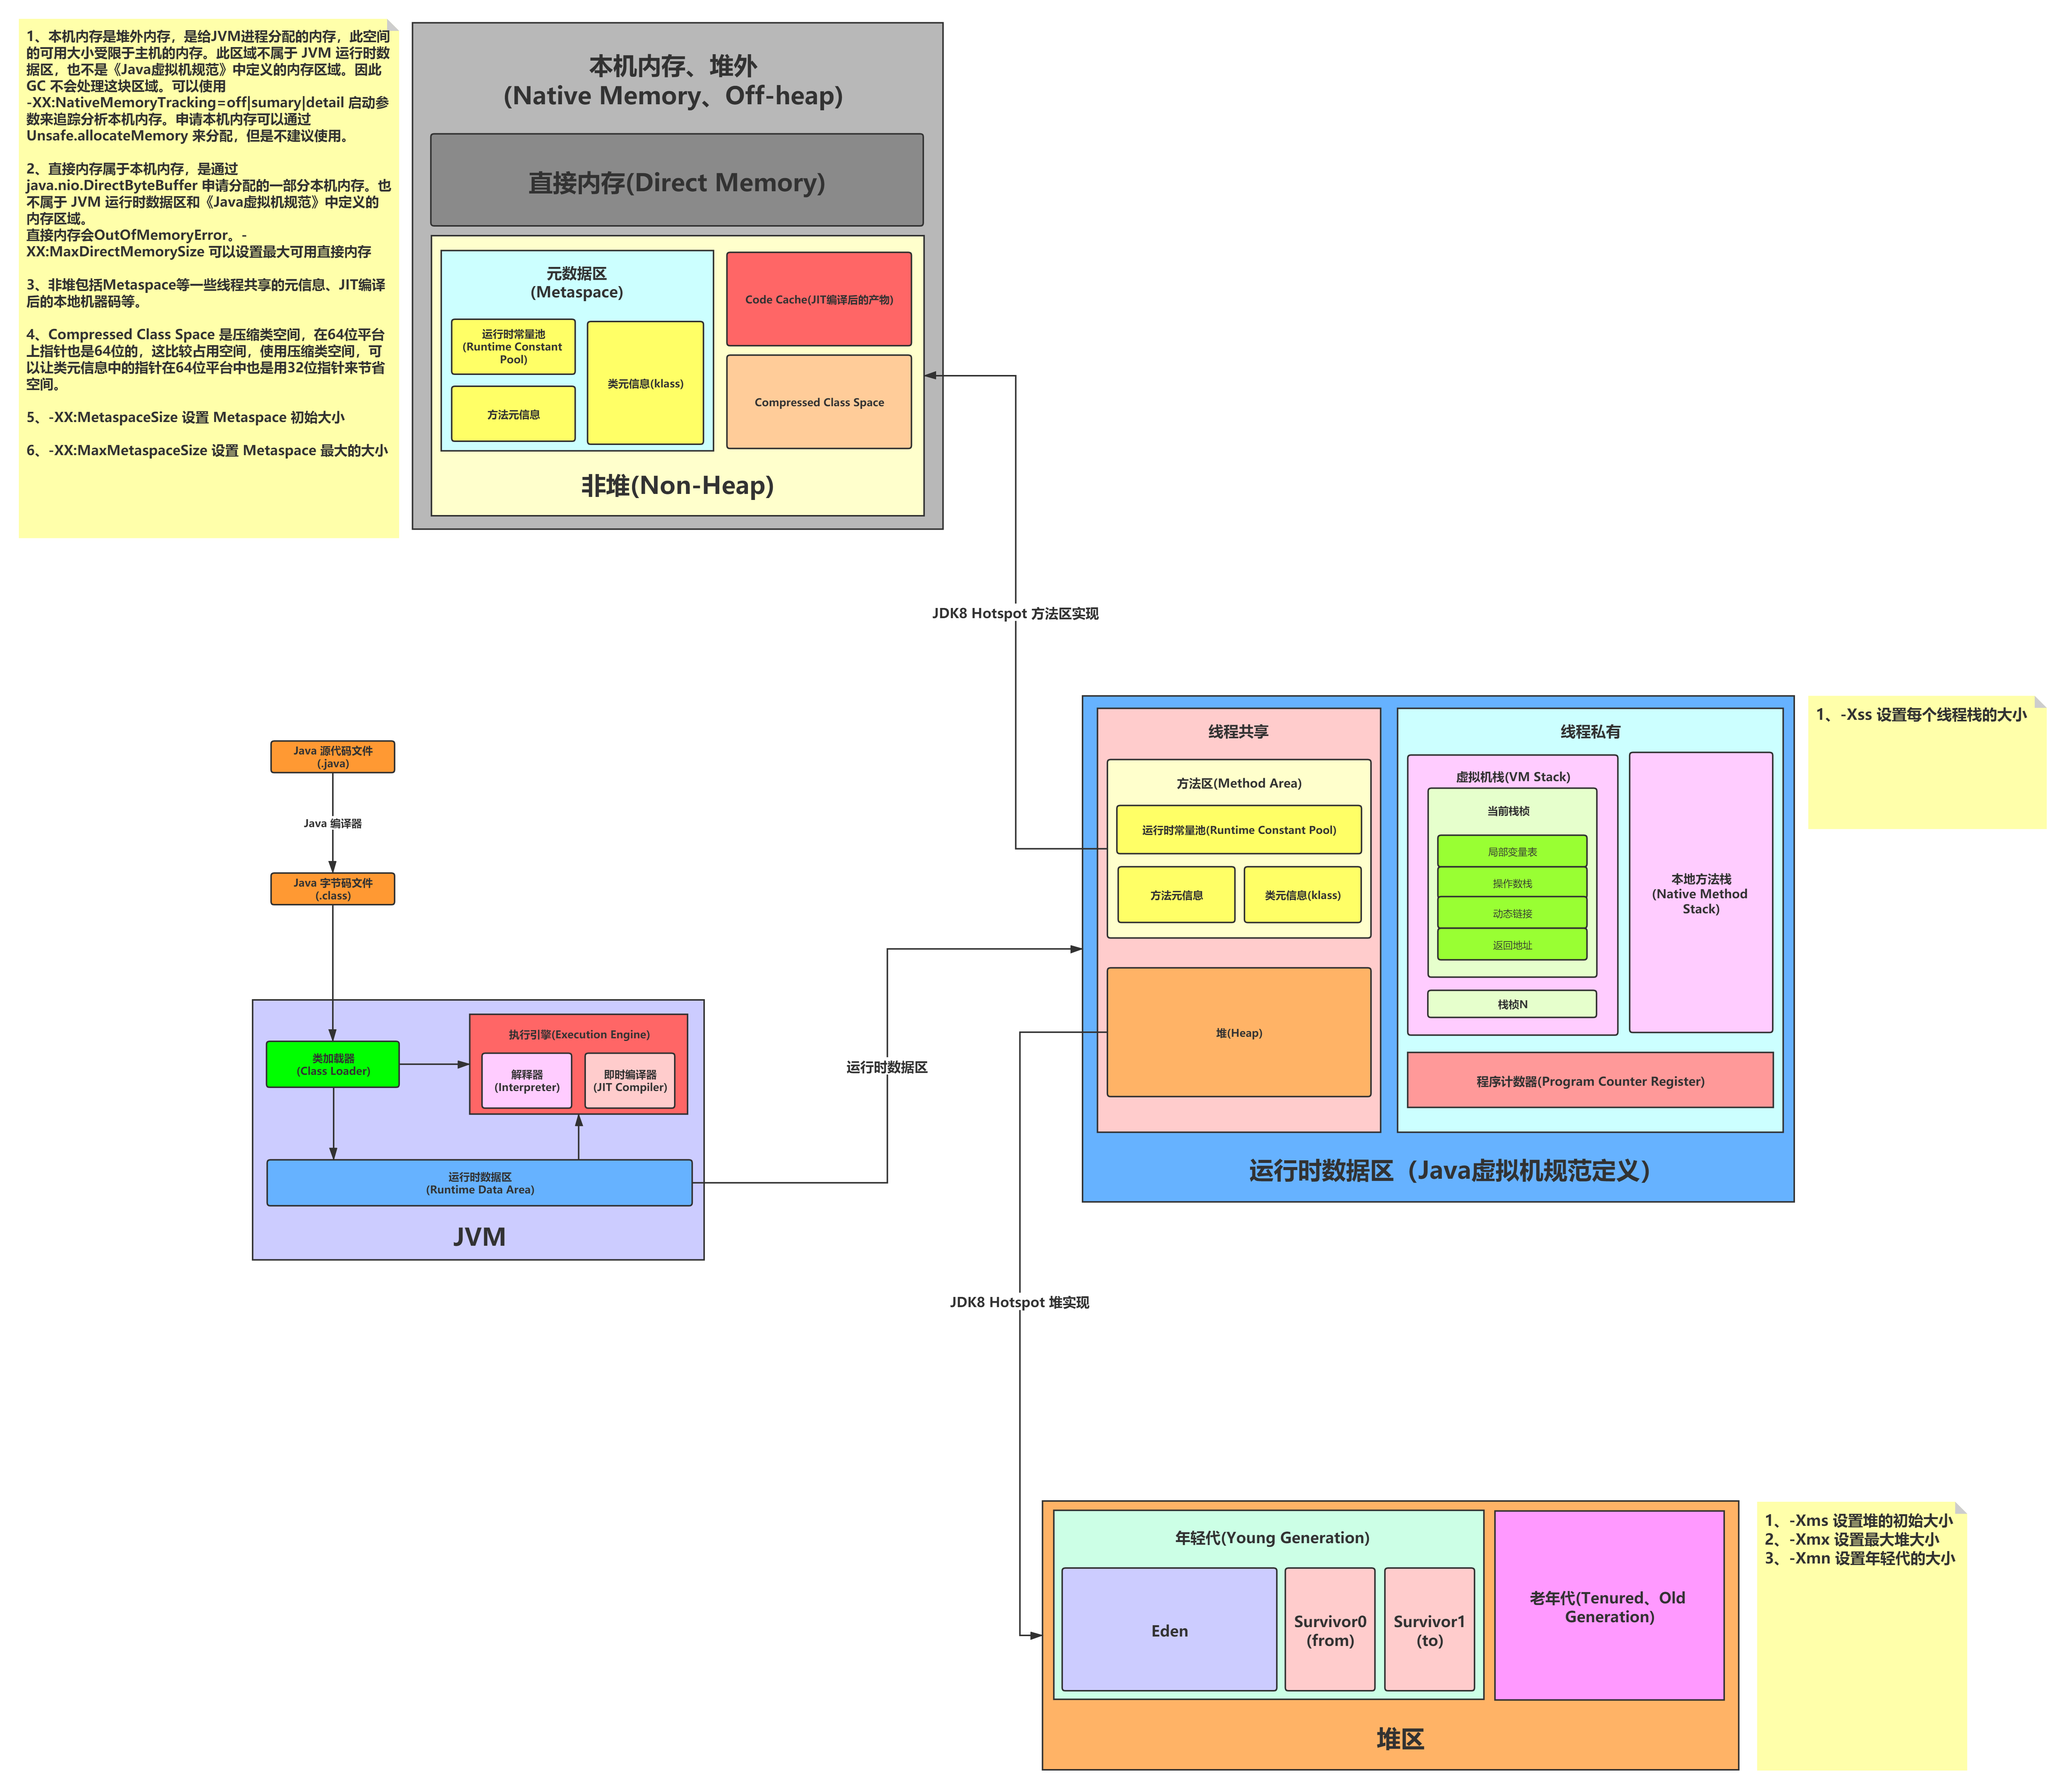
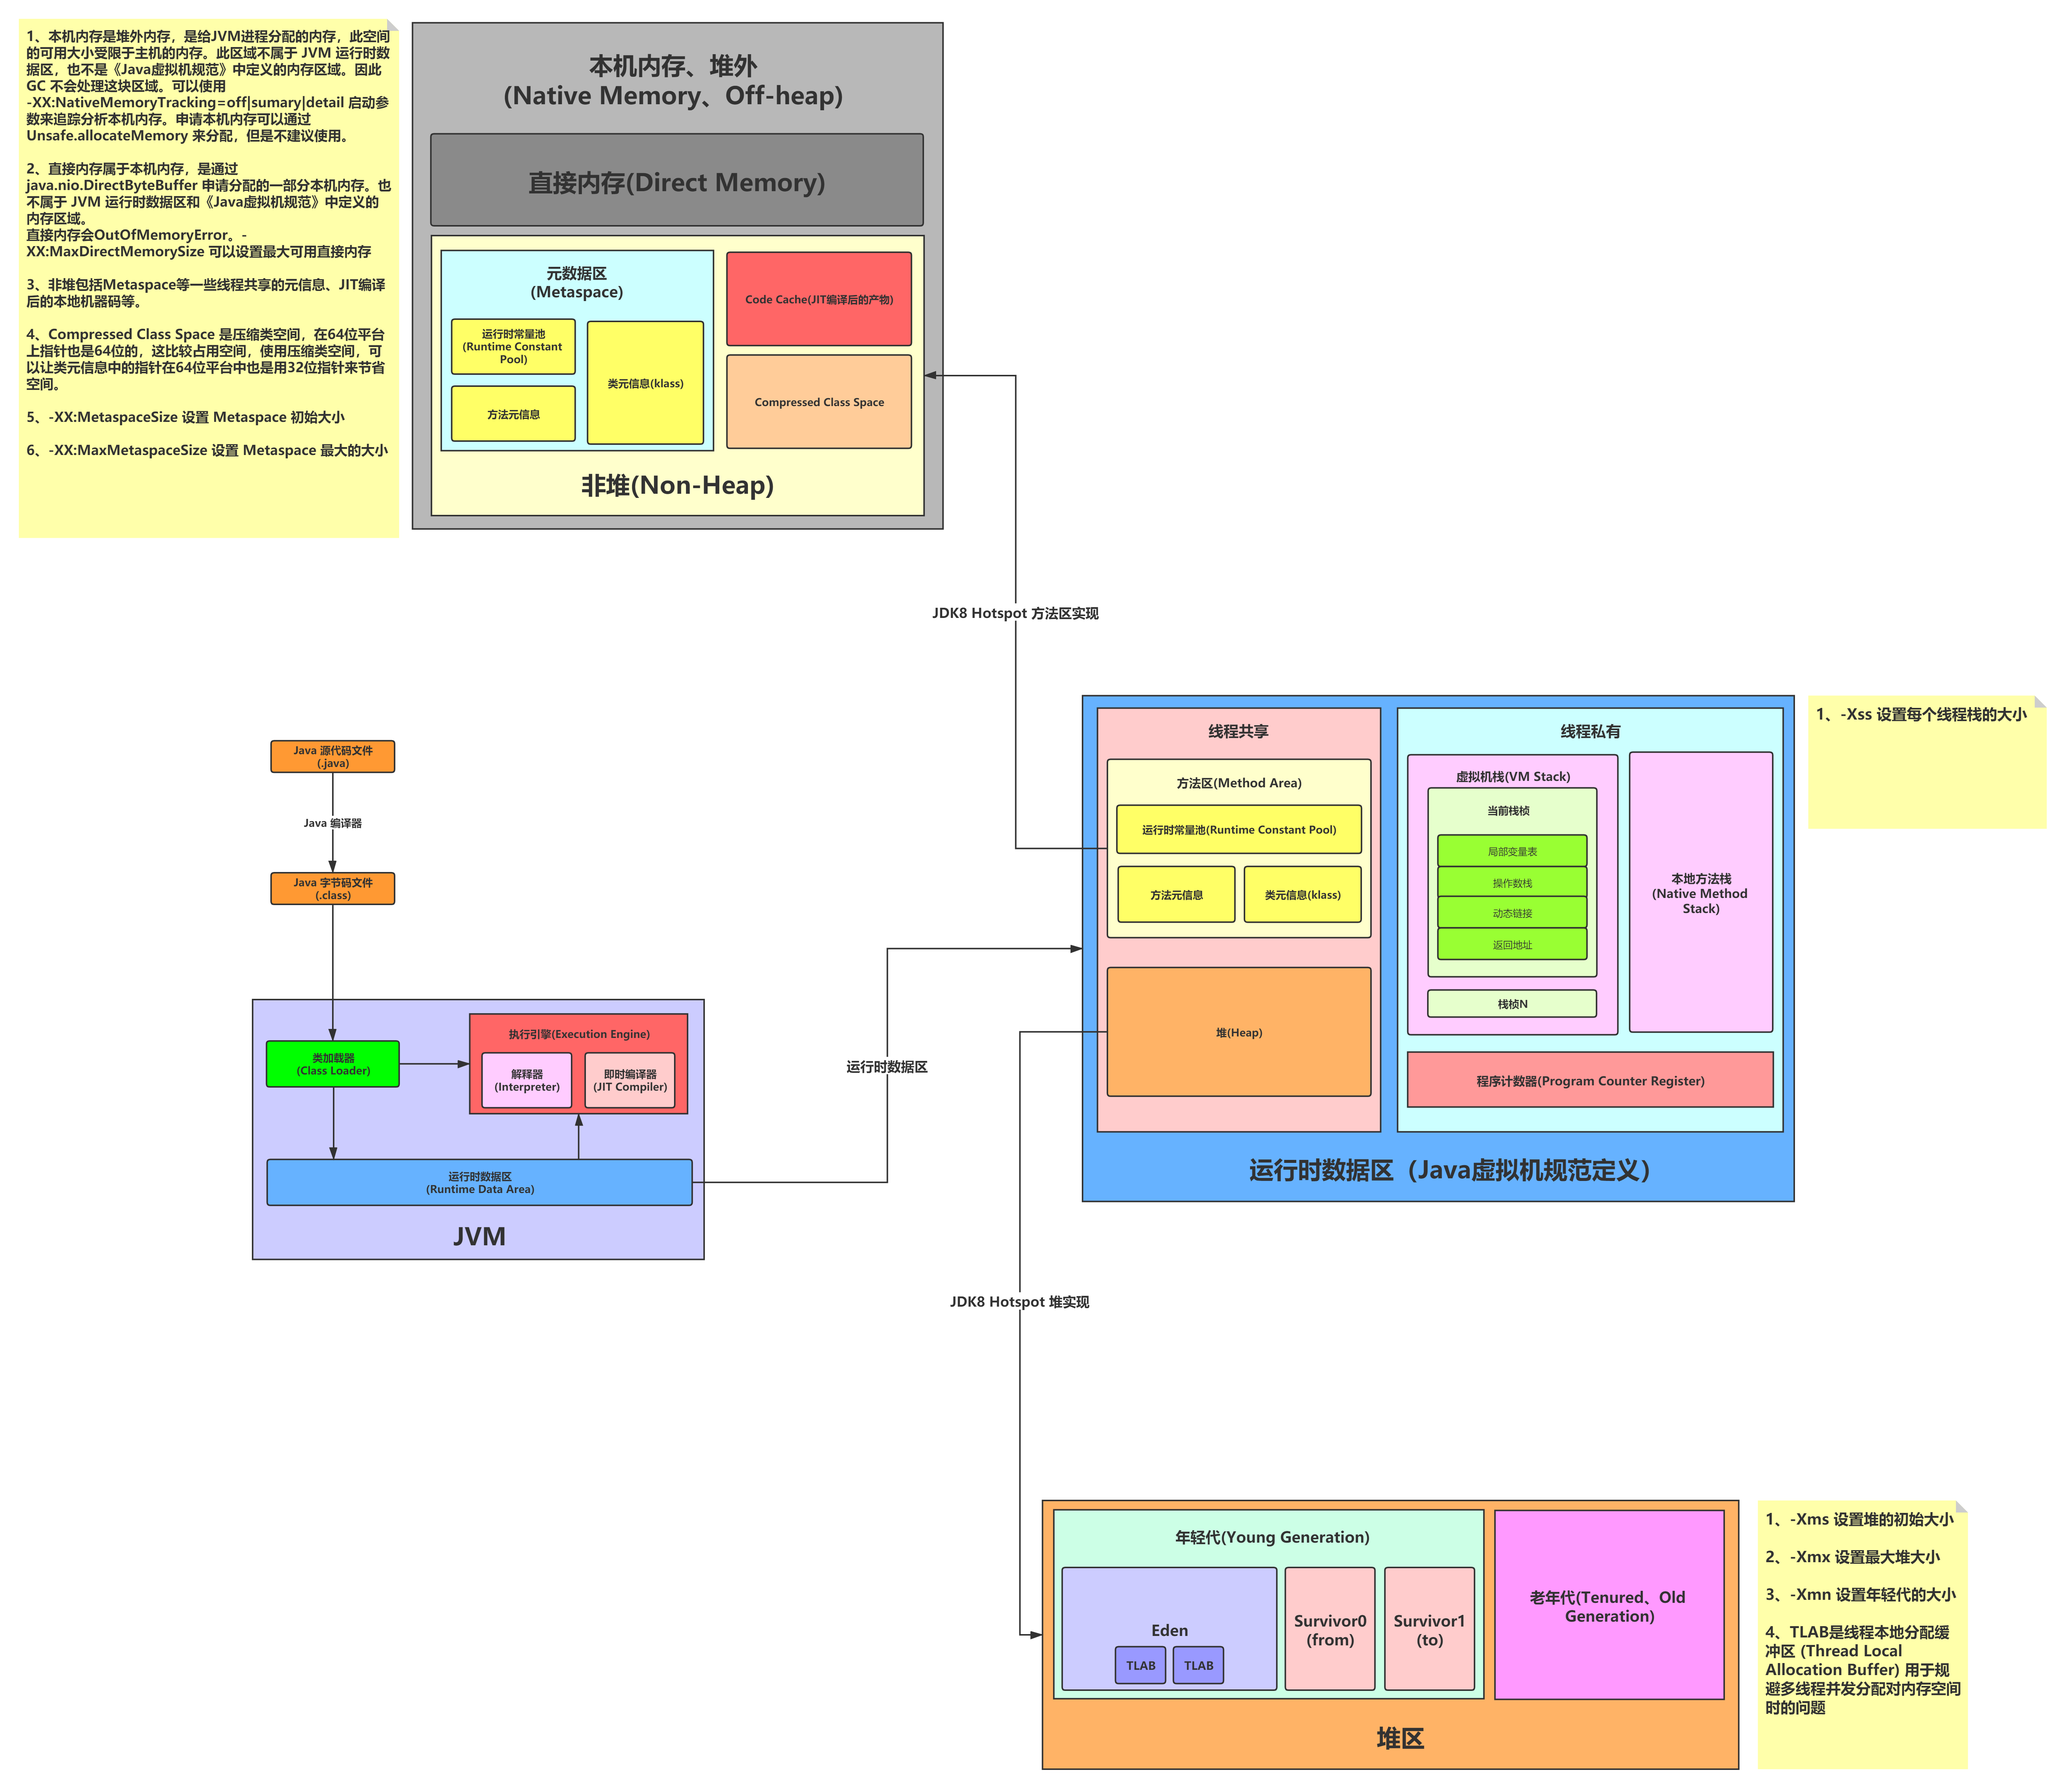
笔记整理

diff --git a/Week_01/lesson02/README.md b/Week_01/lesson02/README.md
@@ -16,6 +16,10 @@
     - [2.2 jvisualvm](#jvisualvm)
     - [2.3 jmc](#jmc)
   - [3. GC (Garbage Collection)](#gc)
+    - [3.1 垃圾回收算法](#gcAlgorithm)
+    - [3.2 内存碎片整理](#memoryDefragmentation)
+    - [3.3 分代假设](#generationalHypothesis)
+    - [3.4 堆内存池划分](#heapPartition)
 ---------------------
 # <span id="jdkCommandTools">1. JDK 自带命令行工具</span>
 > ![alt 图片](./img/常用%20JDK%20自带命令行工具.png "常用 JDK 自带命令行工具")
@@ -266,6 +270,8 @@ d:\>jstat -gccapacity 6820
 >>>
 >> ## <span id="jmapCommand">1.4 jmap</span>
 >> 用于查看堆内存的统计信息、导出堆快照文件、查看 ClassLoader 的信息以及 finalizer 队列
+>>
+>> 注意: 对于线上有流量的系统，慎重使用 jmap 命令。
 >>
 >> jmap 语法:
 ```
@@ -631,7 +637,7 @@ java
 > jmc 是源自 JRockit JVM 的一套监控和管理工具，功能最全。jmc 监控的是整个系统，而并非只是被选中的 JVM 进程。
 >
 # <span id="gc">3. GC (Garbage Collection)</span>
-> ## <span id="gc">3.1 垃圾回收算法</span>
+> ## <span id="gcAlgorithm">3.1 垃圾回收算法</span>
 > ### 3.1.1 引用计数法
 >> #### 1) 原理
 >>> 当某个对象被引用的时候，该对象的引用计数器就加一，当该对象不被引用时引用计数器就减一，如果引用计数器为0时，就代表此对象
@@ -672,6 +678,57 @@ java
 >>> 垃圾收集过程中，需要暂停应用程序的所有线程。假如不暂停，则对象间 的引用关系会一直不停地发生变化，那样就没法进行统计了。
 >>> 这种情况叫做 STW 停顿 (Stop The World Pause ，全线暂停)，让应用程序暂时停止，让JVM进行内存清理工作。有很多原因会触发 STW 停顿，
 >>> 其中垃圾收集是最主要的原因。
+>
+> ## <span id="memoryDefragmentation">3.2 内存碎片整理</span>
+> 在每次执行清除 (Sweeping) 之后，JVM 都必须保证不可达对象所占用的内存空间能被回收重用，但这就导致了内存的不连续而产生内存碎片。从而引发两个问题:
+>>   - 写入操作越来越慢，因为寻找一片足够大的空闲内存会变得困难，并且这些内存碎片下次很可能因为分配算法的关系而无法再次重用。
+>>   - 在创建新对象时，JVM 在连续的块中分配内存。如果内存碎片问题很严重，没有足够的空闲连续的内存段使用，就会发生内存分配错误
+>>
+>> 要避免这类问题，JVM 必须保证内存碎片问题可控。因此在垃圾收集过程中，标记清除之后，还需要执行“内存碎片整理”。
+>>
+>> ![alt 图片](./img/内存碎片整理示意图.png "内存碎片整理示意图")
+>>
+>> 注意: 如果 GC 移动了某个对象，就会修改栈和堆中所指向该对象的引用。移动/复制/压缩都会 STW，所以修改某个的对象的引用是安全的，
+>>       但要更新所有指向该对象的引用，可能会影响性能。
+>
+> ## <span id="generationalHypothesis">3.3 分代假设</span>
+>> 创建的对象越多，收集垃圾的时间就会越长，STW 的时间也会越长。程序中大多数可回收的内存可分为两类:
+>>   - 大部分对象很快就不在使用或立刻就无用，生命周期很短。
+>>   - 不会立即无用，但是也不会使用太长时间
+>>
+>> 根据这个情况就形成了弱分代假设理论，这一假设任为”大多数对象在年轻时死亡“。
+>> JVM 根据这个理论将堆内存分为年轻代 (Young Generation、New Generation) 和老年代 (Old Generation、Tenured Generation)。拆分
+>> 这两个可单独清理的区域，就可以使用不同的 GC 算法来提高 GC 的性能。
+>>
+>> 分代假设的弊端: 实际情况中，在不同的分代中的对象可能存在相互引用，比如年轻代的对象引用着老年代的对象，老年代的对象引用着年轻代的对象
+>                分代假设并不适用于所有程序。因为分代 GC 算法专门针对“要么死得快”，“否则活 得长” 这类特征的对象来进行优化，
+>                此时 JVM 管理那种存活时间半长不长的对象就显得非常尴尬了。
+>
+> ## <span id="heapPartition">3.4 堆内存池划分</span>
+> ### 3.4.1 新生代 (Eden Space)
+>> 新生代也叫伊甸区，是堆内存中的一个区域，用来分配新创建的对象。通常情况会有多个线程并发的创建多个对象，出现线程安全问题，
+>> 这样就会产生指针碰撞问题。
+>>
+>> 指针碰撞: 假设 JVM 上堆内存现在是规整的，没有碎片。堆内存被指针一分为二，左边是已经使用的内存区域，右边是未使用的内存区域，
+>>          每次新创建了一个对象时指针就会向右移动对象大小的距离，这被称为指针碰撞。
+>>
+>> ![alt 图片](./img/指针碰撞.png "指针碰撞")
+>
+>> 指针碰撞问题在于多线程并发情况下，一个线程正在给对象 A 分配内存空间，指针还没有来得及修改，同时另一个线程正在给对象 B 分配内存，
+>> 这样就会出现在同一块内存区域同时被分配多次的问题。
+>> 
+>> java 的 Eden 区在解决这个问题的方案是将 Eden 区划分出多个 TLAB (线程本地分配缓冲区)，TLAB 是每个线程独享的，每个线程只在属于
+>> 自己的 TLAB 中分配各自所需的内存。如果 TLAB 中没有足够的内存空间，就会在共享 Eden 区(shared Eden space)之中分配。
+>> 如果共享 Eden 区也没有足够的空间，就会触发一次年轻代 GC 来释放内存空间。
+>> 
+>
+>
+>
+>
+>
+>
+>
+>
 >
 >
 >
